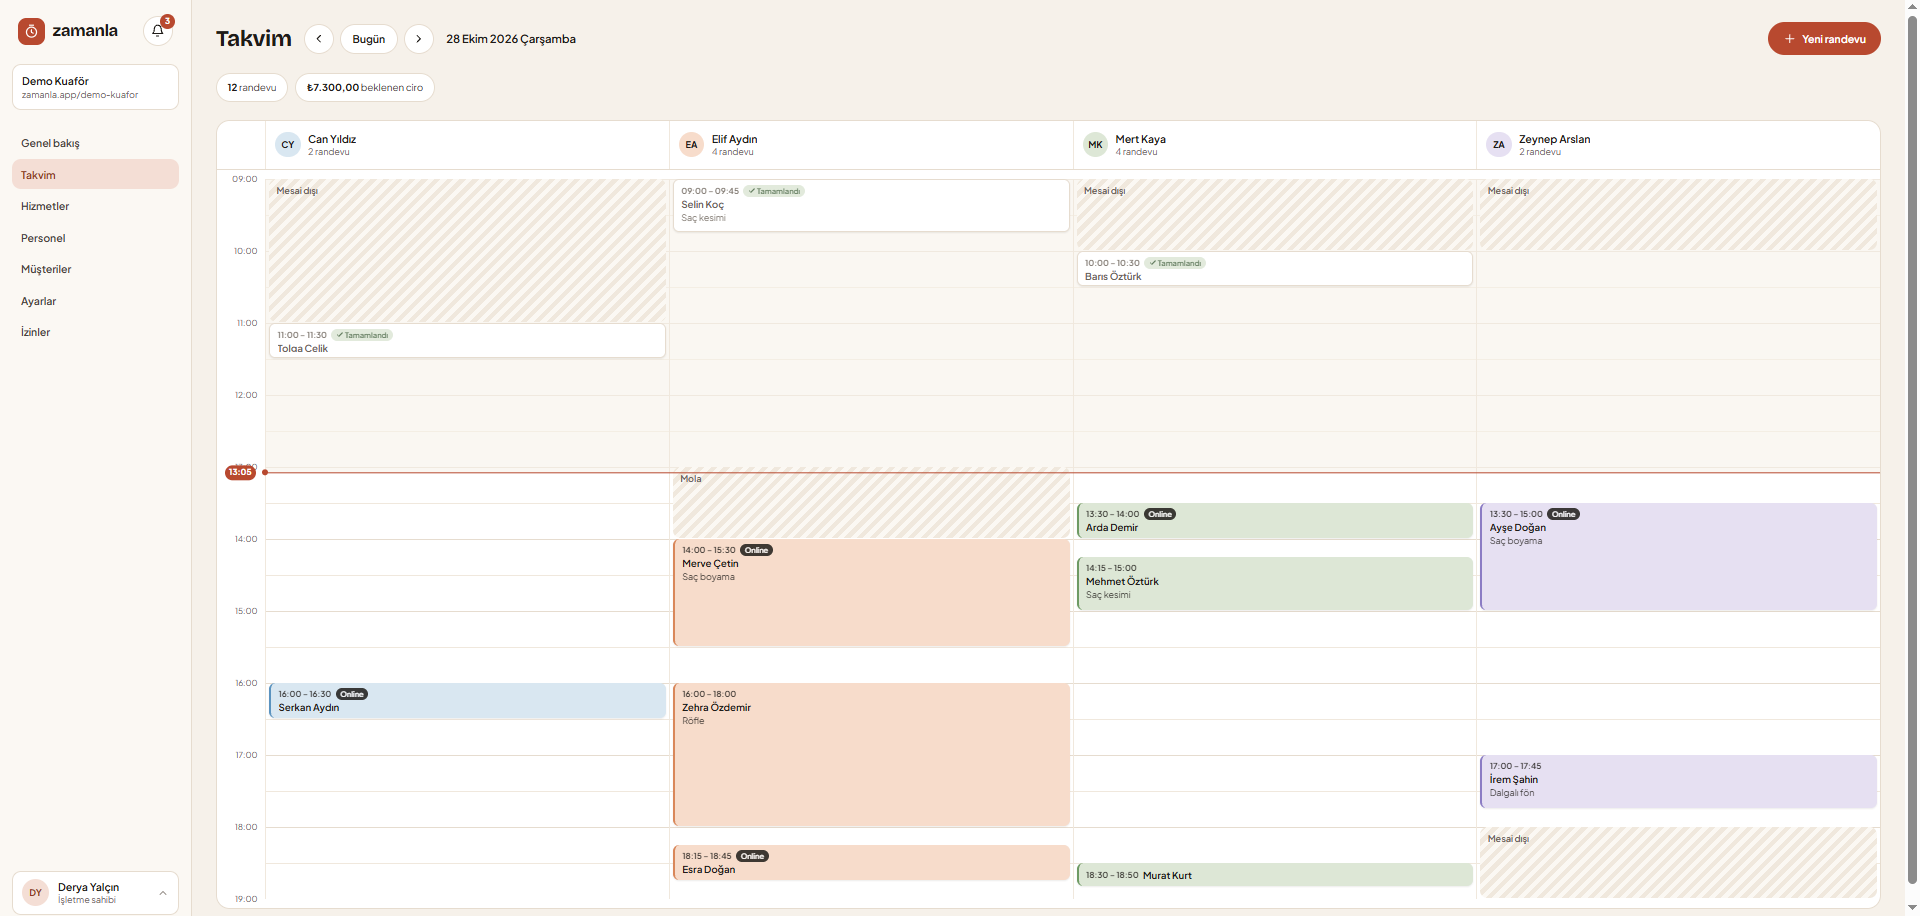
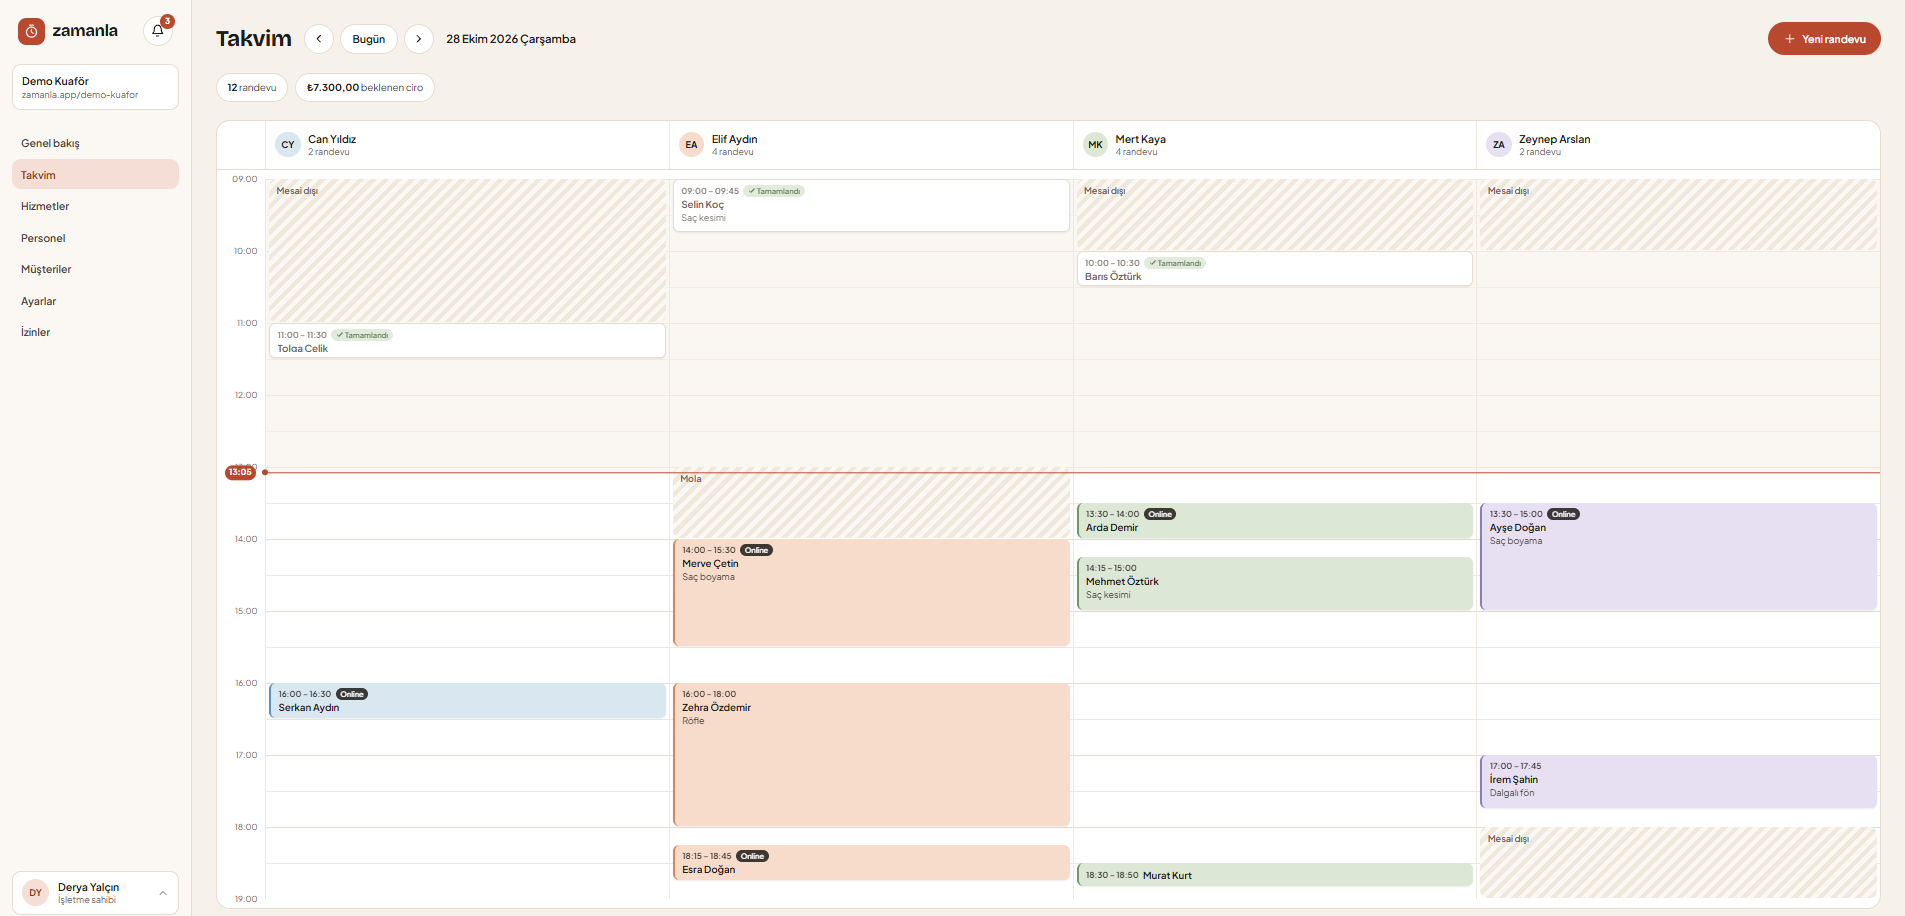
docs: improve screenshot layout in README

diff --git a/README.md b/README.md
@@ -8,9 +8,7 @@ Berber, kuaför ve güzellik salonları için çok kiracılı (multi-tenant) onl
 
 ![Günlük takvim: personel sütunları, molalar, online randevular ve "şu an" çizgisi](docs/screenshots/takvim.png)
 
-| Genel bakış | Giriş |
-| --- | --- |
-| ![Genel bakış: günün özeti ve son 7 günün grafiği](docs/screenshots/genel-bakis.png) | ![Giriş sayfası](docs/screenshots/giris.png) |
+![Genel bakış: günün özeti, sıradaki randevular ve son 7 günün grafiği](docs/screenshots/genel-bakis.png)
 
 <p align="center">
   <img src="docs/screenshots/randevu-sayfasi.png" alt="Müşterinin online randevu sayfası, bilgisayarda" width="68%">
@@ -19,6 +17,10 @@ Berber, kuaför ve güzellik salonları için çok kiracılı (multi-tenant) onl
 
 <details>
 <summary>Daha fazla ekran görüntüsü</summary>
+
+**Giriş sayfası**
+
+![Giriş sayfası](docs/screenshots/giris.png)
 
 **Online randevu: hizmet seçimi ve son adım**
 
